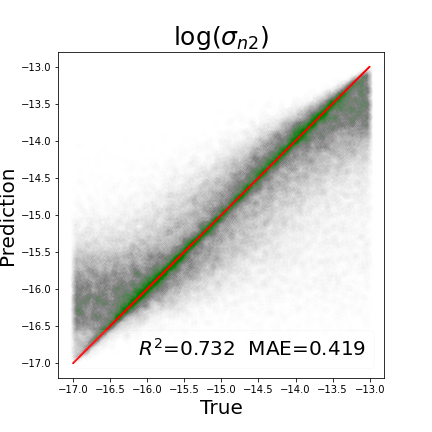
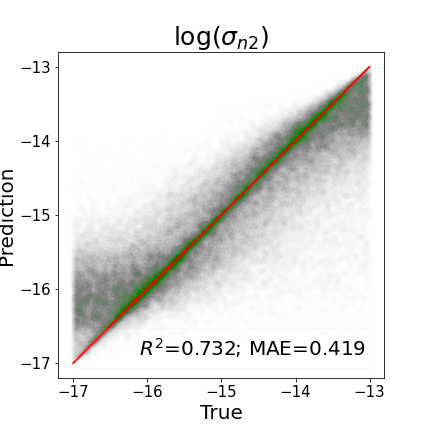
s

diff --git a/2_levels_problem/mode2/true_prediction_plot/program.py b/2_levels_problem/mode2/true_prediction_plot/program.py
@@ -112,7 +112,7 @@ for k in range(len(Truelist)):
     ax = fig.add_subplot(111)
     true = Truelist[k]
     prediction = predictionlist[k]
-    plt.scatter(true, prediction, label=('$R^2$' + '=' + str(R2list[k])) + ('  MAE' + '=' + str(MAElist[k])), alpha=alpha, color='green')
+    plt.scatter(true, prediction, label=('$R^2$' + '=' + str(R2list[k])) + ('; MAE' + '=' + str(MAElist[k])), alpha=alpha, color='green')
     plt.plot(true, true, color='r')
     plt.xlabel('True', fontsize=20)
     plt.ylabel('Prediction', fontsize=20)
@@ -120,6 +120,11 @@ for k in range(len(Truelist)):
     # plt.text(0, 0.5, alphabet[k], fontsize=20)
     plt.title(titlelist[k], fontsize=25)
     plt.legend(loc=4, framealpha=0.1, fontsize=20)
+    plt.xticks(fontsize=15)
+    plt.yticks(fontsize=15)
+    if k>1:
+        plt.xticks(range(-17, -12))
+        plt.yticks(range(-17, -12))
     plt.savefig(fname=str(filenamelist[k]) + '.png')
     plt.show()
 # %%-
